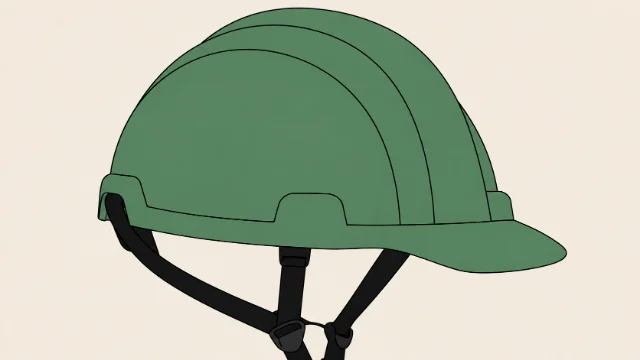
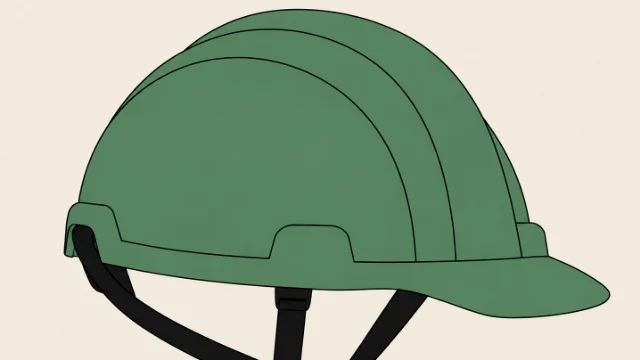
The hard hat is cropped closer, from the original rather than the card
The framing the owner sent back, recovered from the 1672x941 source
instead of taken from the file he sent.

He sent a 640x360 PNG -- the card's own slot size -- which is the thing
worth noticing rather than the framing. A file at the slot size has
already been through this pipeline, so it is an upscale of a shipped card
rather than a source. It measured it: averaged over the picture its
ink-to-ground edges take 2.70px to cross, against 2.03px on the card it
was cut from and 1.87px on 01. It would have shipped as the one soft card
in a row of crisp ones.

So the rectangle was recovered rather than the file used. Normalised
cross-correlation of the returned PNG against the shipped card, searched
over scale and offset, puts it at x=43 y=0 w=550 h=309 in card pixels at
0.83 -- 112,0,1436,808 on the source. Cut from the original that
composition measures 2.36px. It is still short of 01's 1.87 because the
crop is a 2.24x downsample where the full frame is 2.61x, which is the
unavoidable cost of zooming in, not a processing fault.

The lift stays 0.97, checked rather than assumed: a tighter crop samples
a different part of a ground that is not flat, and it lands the corners
on (242,233,221) and (243,234,222) against 01 and 02's (242,234,223).
Measured as a patch mean rather than a corner pixel -- at 0.86 quality
the encoder moves a single pixel several levels, and a one-pixel probe
read 0.975 as greener than 0.97 on the same image.
[…]

diff --git a/index.html b/index.html
@@ -585,7 +585,7 @@
           </a>
           <a class="engagement-card reveal" href="case-study/dispatch-complexity.html">
             <span class="engagement-num" aria-hidden="true">03</span>
-            <div class="engagement-figure"><img src="img/engagement/03-embedded.webp?v=11" width="640" height="360" alt="A large sage hard hat drawn whole in the middle of the frame with cream above and beside it, its black chinstrap harness running from both sides of the shell down to a buckle beneath the hat and off the bottom edge" loading="lazy" decoding="async" /></div>
+            <div class="engagement-figure"><img src="img/engagement/03-embedded.webp?v=12" width="640" height="360" alt="A large sage hard hat filling most of the frame with a narrow band of cream above its dome, the tip of its brim running off the right edge, its black chinstrap harness running from both sides of the shell down to a buckle beneath the hat and off the bottom edge" loading="lazy" decoding="async" /></div>
             <h3>Own the design inside the team, not beside it</h3>
             <ul class="engagement-points">
               <li>Learn the job before redesigning the tool</li>
